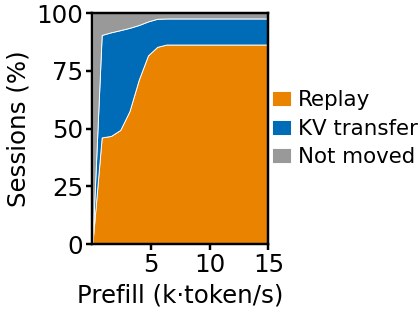
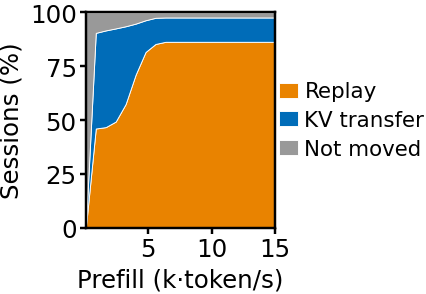
Widen OAT panels to a near-square 0.86x0.98 in axes box
Reclaim margin for plot width: trim the y-axis gutter to the measured
0.38 in the 8 pt ticks and label need, and size panel (a)'s right pad
to exactly its x-label overhang. The pair now spans 3.285 in of a
3.33 in column at 0.404/0.583 columnwidth.

Changed region(s): [[0.0622, 0.0, 1.0, 0.8878], [0.1866, 0.9184, 0.6842, 1.0], [0.0, 0.1531, 0.0622, 0.6735]]

diff --git a/agent-migrate/queue-haul/workload_adaptation_campaign.py b/agent-migrate/queue-haul/workload_adaptation_campaign.py
@@ -1067,8 +1067,8 @@ def plot_oat(rows, path):
     from matplotlib.ticker import PercentFormatter
 
     fs, legend_fs = 8, 7
-    left, axes_w, axes_h, bottom, top = .42, .80, 1.05, .30, .06
-    legend_w, right = .68, .13
+    left, axes_w, axes_h, bottom, top = .39, .86, .98, .30, .06
+    legend_w, right = .69, .095
     for sweep in ("bandwidth", "prefill"):
         wide = sweep == "prefill"
         fig_w = left + axes_w + (legend_w if wide else right)
